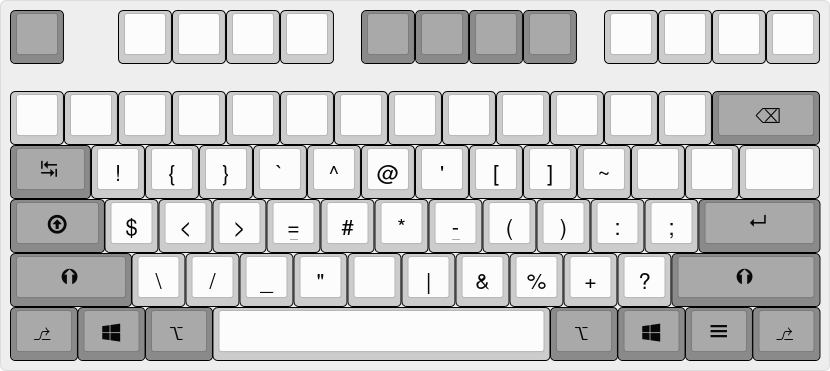
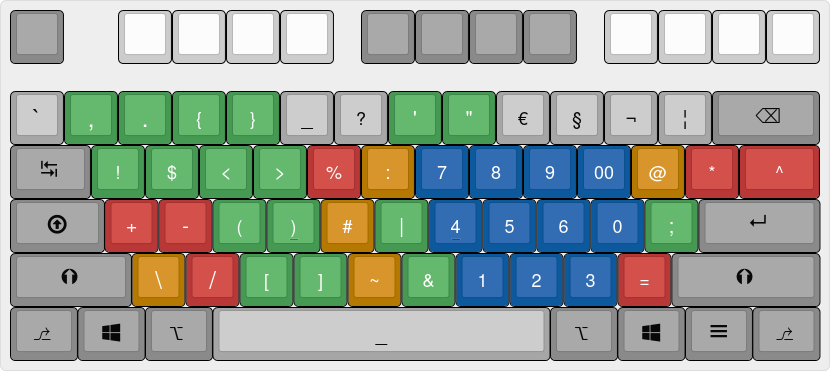
Merge pull request #27 from szageda/feat/chars-layer
Changed:
- Merged the Symbols and Numpad layers (commit 8df109e).
- Updated documentation and assets (commit c1d97f4).

Fixed:
- Added closing " as a comment on the Symbols layer numeric row (commit 27a4f32). This fixes some quirk in the linting workflow (link), and also cleans up the syntax highlighting in text editors.

Removed:
- Deleted references and assets of the Numpad layer (commits df2ecd3 and 73c63f6).

Pull request: Feat/Symbols: Merge the Symbols and Numpad layers
### Summary

I originally wanted to provide an alternative ("Characters layer") to the separate, but co-reliant Symbols and Numpad layers, but I realized it would be better to merge the layers into one.

**Reasoning**:
- There won't be a need to maintain two, potentially three separate layers.
- There is no need to switch between symbols and numerals (which is often the case) toggling between <kbd>Alt</kbd> (Symbols layer) and <kbd>Alt+Caps Lock</kbd> (Numpad layer) which reduces left pinky fatigue (it's anyway responsible for activating the Extend layer and operating the <kbd>Left Shift</kbd> key).

### Changed

- Merged the Symbols and Numpad layers (commit 8df109e43268387c37c64b6941271760c36911f8).
- Updated documentation and assets (commit c1d97f4619c315c8d8224279a2bddf9c15369fe8).

### Fixed

- Added closing `"` as a comment on the Symbols layer numeric row (commit 27a4f32257891becbd1fd4d0ae7bdc34b7f7cd12).
    - This fixes some quirk in the linting workflow ([link](https://github.com/szageda/keeb-utils/actions/runs/26361679296/job/77598184401)), and also cleans up the syntax highlighting in text editors.

### Removed

- Deleted references and assets of the Numpad layer (commits df2ecd39d4e6c913bfe82b33c2e4c0e1c29a92de and 73c63f6f19f7d23ae097d3de657fb52aaa7a7af3).

diff --git a/README.md b/README.md
@@ -86,9 +86,9 @@ The Extend layer optimizes text editing and navigation. Activating this layer (d
 
 ### Symbols Layer
 
-The Symbols layer (default: <kbd>Left Alt</kbd>) provides ergonomic access to punctuation and mathematical operators.
+The Symbols layer (default: <kbd>Left Alt</kbd>) provides ergonomic access to math operators, programming symbols, and numbers.
 
-- **Balanced Distribution**: Spreads symbols across both hands to prevent strain.
+- **Balanced Distribution**: Spreads numerals and symbols across both hands to balance hand use.
 - **Logical Grouping**: Brackets and operators are grouped to improve muscle memory.
 
 <div align="center">
@@ -98,23 +98,13 @@ The Symbols layer (default: <kbd>Left Alt</kbd>) provides ergonomic access to pu
 
 </div>
 
-### Numpad Layer
-
-The Numpad layer enables efficient technical data entry. This is a stepped layer, accessed through the Symbols layer (<kbd>Left Alt</kbd> → <kbd>Caps Lock</kbd>).
-
-<div align="center">
-
-![Numpad layer](Assets/Images/Keyboard%20Layers/numpad.png)  
-*Numpad layer keymap for ANSI 101/104-key keyboards*
-
-</div>
-
 | Key Category  | Description |
 | :-----------: | ----------- |
-| ![Numerals](Assets/Images/Keyboard%20Layers/extend-blue.png) | Numeric keys |
-| ![Letters](Assets/Images/Keyboard%20Layers/extend-orange.png) | Letter keys for hexadecimal numbers and error codes |
-| ![Math symbols](Assets/Images/Keyboard%20Layers/extend-red.png) | Math symbols and operators |
-| ![Misc. keys](Assets/Images/Keyboard%20Layers/extend-grey.png) | Misc. keys |
+| ![Numpad keys](Assets/Images/Keyboard%20Layers/extend-blue.png) | Numpad keys |
+| ![Programming keys](Assets/Images/Keyboard%20Layers/extend-light-green.png) | Common programming symbols |
+| ![Additional math symbols](Assets/Images/Keyboard%20Layers/extend-orange.png) | Additional math symbols |
+| ![Math operators](Assets/Images/Keyboard%20Layers/extend-red.png) | Math operators |
+| ![Misc. keys](Assets/Images/Keyboard%20Layers/extend-grey.png) | Misc. symbols |
 
 ## Acknowledgments
 